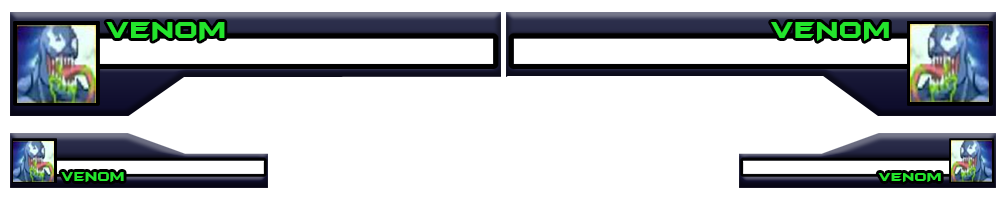
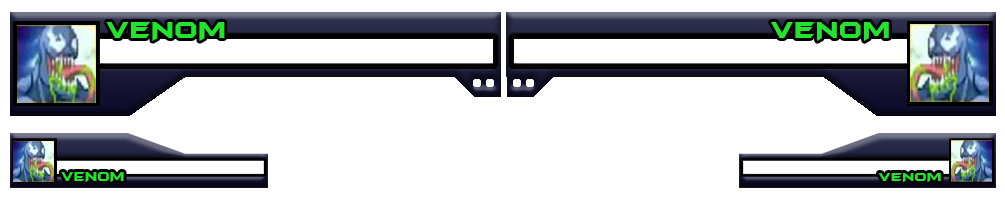
agrego puntitos ganadores

diff --git a/utils/LifeManager/LifeManager.cpp b/utils/LifeManager/LifeManager.cpp
@@ -19,6 +19,8 @@ LifeManager::LifeManager(SDL_Renderer* renderer,int z,  vector<int> first,
     currentColor = green;
     secondColor = green;
     isRight = false;
+    roundsWon = 0;
+
     this->renderer = renderer;
     this->z = z;
     this->x = first[0];
@@ -39,6 +41,26 @@ LifeManager::LifeManager(SDL_Renderer* renderer,int z,  vector<int> first,
 }
 
 void LifeManager::render() {
+
+    SDL_SetRenderDrawColor(renderer,240,103,8, 255);
+    SDL_Rect rectangleWons;
+
+    if(isRight){
+        rectangleWons.x = x;
+        rectangleWons.y = y + 65;
+        rectangleWons.w = 10* roundsWon;
+        rectangleWons.h = 11;
+    }
+    else{
+        rectangleWons.x = x + 460; //460
+        rectangleWons.y = y + 65; //65
+        rectangleWons.w = 10 * roundsWon;
+        rectangleWons.h = 11;
+    }
+
+    SDL_RenderFillRect(renderer, &rectangleWons);
+
+
 
     SDL_SetRenderDrawColor(renderer, currentColor[0], currentColor[1], currentColor[2], 255);
 
@@ -152,4 +174,8 @@ void LifeManager::updateShouldFight(int shouldFight) {
         currentColor = green;
         secondColor = green;
     }
+}
+
+void LifeManager::updateWons(int roundsWon){
+    this->roundsWon = roundsWon;
 }

diff --git a/controllers/ViewController/ViewController_fight/ViewController_fight.cpp b/controllers/ViewController/ViewController_fight/ViewController_fight.cpp
@@ -208,7 +208,7 @@ string ViewController_fight::giveNewParameters() {
     }
 
 
-    string updates = "0100000000000000000000000000000000000000000000000000000";
+    string updates = "010000000000000000000000000000000000000000000000000000000";
 
     vector<int> pos_floor = backgrounds[0]->getPosCamera();
     vector<int> pos_moon = backgrounds[1]->getPosCamera();
@@ -292,6 +292,16 @@ string ViewController_fight::giveNewParameters() {
 
     if(shouldFight) updates[54] = '1';
     else updates[54] = '0';
+
+    int roundWonTeam1_int = team1->getRoundsWon();
+    char roundsWonTeam1[1];
+    sprintf(roundsWonTeam1, "%d", roundWonTeam1_int);
+    updates[55] = roundsWonTeam1[0];
+
+    int roundWonTeam2_int = team2->getRoundsWon();
+    char roundsWonTeam2[1];
+    sprintf(roundsWonTeam1, "%d", roundWonTeam2_int);
+    updates[56] = roundsWonTeam2[0];
 
 
 

diff --git a/Client/Client.cpp b/Client/Client.cpp
@@ -6,7 +6,7 @@
 
 
 #define NOBEAT (char*)"0"
-#define MESSAGEFROMSERVERLEN 55
+#define MESSAGEFROMSERVERLEN 57
 #define MESSAGEFROMSERVERLEN2 5
 
 
@@ -331,6 +331,10 @@ void* Client::render(void *arg) {
 
             char shouldFight [] = {messageReceived[54], '\0'};
             game->updateShouldFight(shouldFight);
+
+            char roundsWonTeam1[] = {messageReceived[55], '\0'};
+            char roundsWonTeam2[] = {messageReceived[56], '\0'};
+            game->updateTeamsWons(roundsWonTeam1, roundsWonTeam2);
 
             game->render();
             queueRecv.pop();

diff --git a/views/View/View_fight.cpp b/views/View/View_fight.cpp
@@ -220,6 +220,14 @@ void View_fight::updateShouldFight(char *shouldFight) {
     lifeManagerTeam2->updateShouldFight(shouldFight_int);
 }
 
+void View_fight::updateTeamsWons(char *roundsWonTeam1, char* roundsWonTeam2) {
+    int roundsWonTeam1_int = atoi(roundsWonTeam1);
+    int roundsWonTeam2_int = atoi(roundsWonTeam2);
+    lifeManagerTeam1->updateWons(roundsWonTeam1_int);
+    lifeManagerTeam2->updateWons(roundsWonTeam2_int);
+
+}
+
 
 
 

diff --git a/utils/LifeManager/LifeManager.h b/utils/LifeManager/LifeManager.h
@@ -19,6 +19,7 @@ private:
     bool shouldFight = false;
     double life;
     double lifeSecond;
+    int roundsWon;
 
 
     // estos se settearan cuando se seleccionen, así podemos hacer
@@ -66,7 +67,7 @@ public:
     void setFirstCharacter(string name);
     void setSecondCharacter(string name);
     void setAsRight();
-
+    void updateWons(int roundsWon);
     void updateShouldFight(int shouldFight);
 };
 

diff --git a/controllers/ViewController/ViewController_charSelect/ViewController_charSelect.cpp b/controllers/ViewController/ViewController_charSelect/ViewController_charSelect.cpp
@@ -156,7 +156,7 @@ char setCharacter(string name){
 
 string ViewController_charSelect::giveNewParameters() {
 
-    string updates ="0000000000000000000000000000000000000000000000000000000";
+    string updates ="000000000000000000000000000000000000000000000000000000000";
 
     if(selectedContains("CaptainAmerica")) updates[2] = '1';
     if(selectedContains("SpiderMan")) updates[3] = '1';

diff --git a/model/Game/Game.cpp b/model/Game/Game.cpp
@@ -176,4 +176,9 @@ void Game::updateShouldFight(char *shouldFight) {
     dynamic_cast<View_fight*>(this->view)->updateShouldFight(shouldFight);
 }
 
+void Game::updateTeamsWons(char* roundsWonTeam1,char* roundsWonTeam2) {
+    dynamic_cast<View_fight*>(this->view)->updateTeamsWons(roundsWonTeam1, roundsWonTeam2);
+
+}
+
 

diff --git a/controllers/ViewController/ViewController_endGame/ViewController_endGame.cpp b/controllers/ViewController/ViewController_endGame/ViewController_endGame.cpp
@@ -22,7 +22,7 @@ string ViewController_endGame::getNextView() {
 
 string ViewController_endGame::giveNewParameters() {
 
-    string updates = "0200000000000000000000000000000000000000000000000000000";
+    string updates = "020000000000000000000000000000000000000000000000000000000";
 
     /*
      * a = captain America

diff --git a/model/Game/Game.h b/model/Game/Game.h
@@ -32,6 +32,7 @@ public:
     void renderDisconnected();
     void updateWinners(char* winners);
     void updateShouldFight(char* shouldFight);
+    void updateTeamsWons(char* roundsWonTeam1,char* roundsWonTeam2);
 
 private:
     std::map<string, View* > views;

diff --git a/views/View/View_fight.h b/views/View/View_fight.h
@@ -42,6 +42,8 @@ public:
 
     void updateShouldFight(char* shouldFight);
 
+    void updateTeamsWons(char* roundsWonTeam1, char* roundsWonTeam2);
+
 private:
     vector <Character*> team1;
     vector <Character*> team2;
